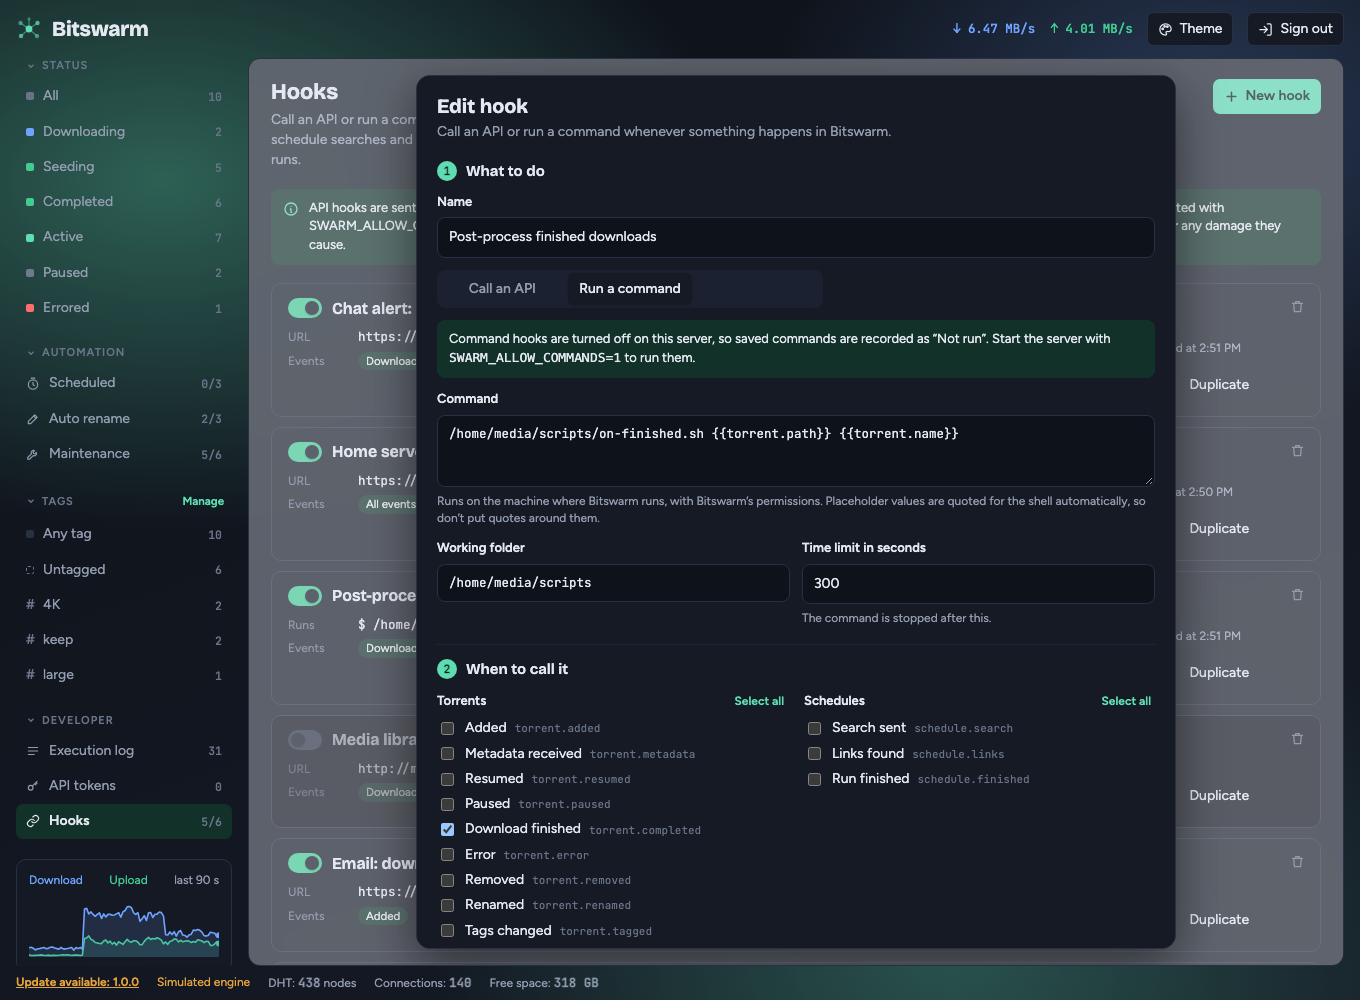
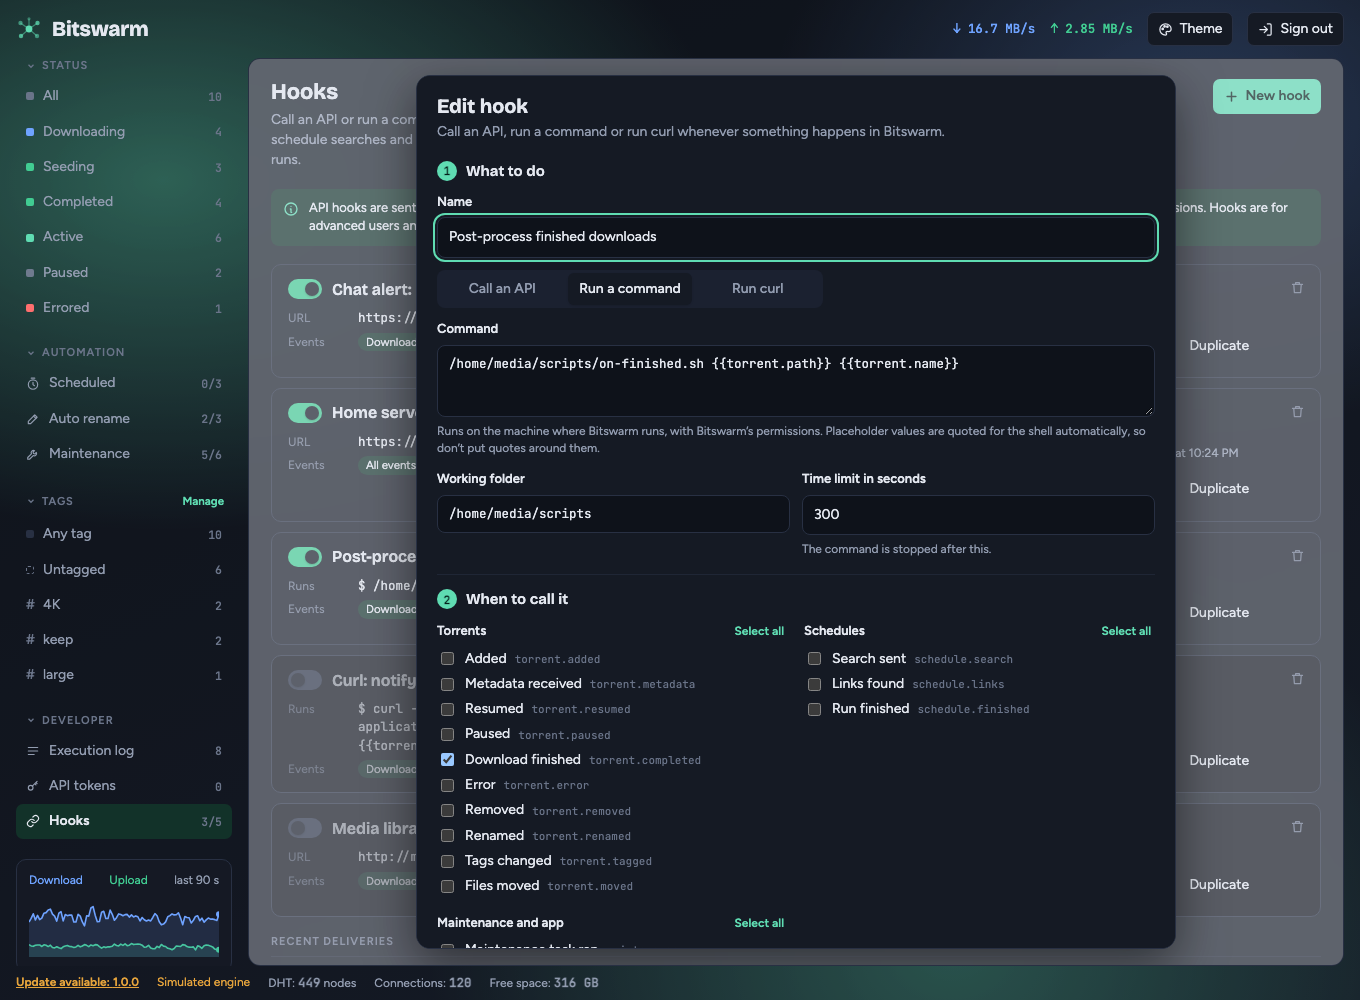
README: add Run curl screenshot, refresh the command hook screenshot
Both are desktop captures (1360x1000, dark theme) of the hook editor with the
three hook types. The Run curl help text now explains where placeholders may
go.

diff --git a/dashboard/src/pages/hooks/HookEditor.tsx b/dashboard/src/pages/hooks/HookEditor.tsx
@@ -105,7 +105,7 @@ export function HookEditor({ hook, onClose, onSaved }: Props) {
               <label className="field">
                 <span>{curl ? "curl command" : "Command"}</span>
                 <textarea ref={refs.cmd} rows={curl ? 5 : 2} value={form.cmd} onFocus={() => (last.current = "cmd")} onChange={(e) => set("cmd", e.target.value)} spellCheck={false} placeholder={curl ? CURL_TEMPLATE : "/home/me/scripts/done.sh {{torrent.path}} {{torrent.name}}"} />
-                <small>{curl ? "Starts the curl program on the machine where Bitswarm runs, so curl must be installed there. " : ""}Runs on the machine where Bitswarm runs, with Bitswarm’s permissions. Placeholder values are quoted for the shell automatically, so don’t put quotes around them.</small>
+                <small>{curl ? <>Starts the real curl program on the machine where Bitswarm runs, with Bitswarm’s permissions, so curl must be installed there. Placeholder values are quoted for the shell automatically, so don’t put quotes around them. Each placeholder has to come right after an equals sign, such as <code>name={"{{torrent.name}}"}</code>, or sit in a URL or a <code>-H</code> value.</> : "Runs on the machine where Bitswarm runs, with Bitswarm’s permissions. Placeholder values are quoted for the shell automatically, so don’t put quotes around them."}</small>
               </label>
               <div className="row2">
                 <label className="field">

diff --git a/README.md b/README.md
@@ -67,6 +67,10 @@ A hook runs when something happens in Bitswarm. Pick the events, pick what to do
 
 <img src="docs/screenshots/hooks-cmd.png" alt="Editing a command hook that runs a script when a download finishes">
 
+**Run curl.** The same editor with a curl command. The template posts the whole event as JSON, and the help text under the box explains where placeholders may go:
+
+<img src="docs/screenshots/hooks-curl.png" alt="Editing a hook that runs curl when a download finishes">
+
 Command hooks can do anything the server user can do, and API hooks send data off your machine. Use hooks at your own risk, and read the warning on the Hooks page.
 
 #### Example: email when a download starts and finishes

diff --git a/CHANGELOG.md b/CHANGELOG.md
@@ -4,6 +4,9 @@ All notable changes to Bitswarm are listed here, newest first. The format follow
 
 ## [Unreleased]
 
+### Changed
+- The Run curl editor's help text explains where placeholders may go. The README screenshots show the three hook types.
+
 ### Removed
 - Paste curl in the hook editor and `POST /api/hooks/parse-curl`. Hooks that were created with it are normal API hooks and keep working. To use a curl command from a service's docs, enter its method, URL, headers and body in **Call an API**, or use **Run curl**.
 
